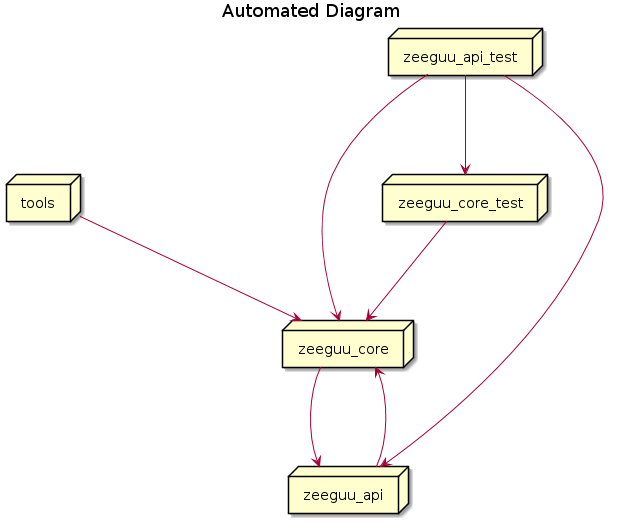
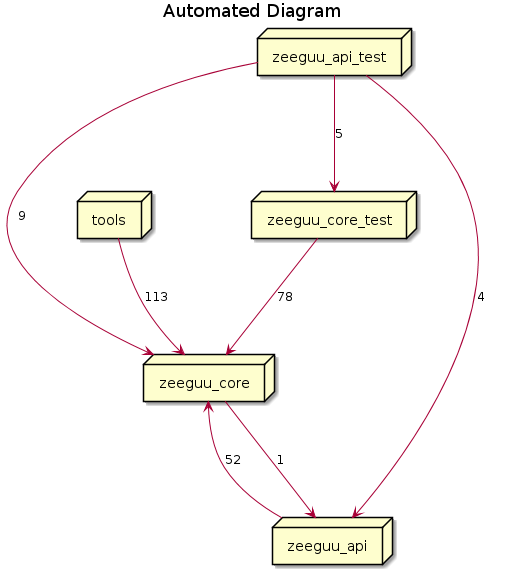
new logic for cardinality

diff --git a/cmd/main.go b/cmd/main.go
@@ -2,6 +2,7 @@ package main
 
 import (
 	"os"
+	"os/exec"
 
 	"github.com/heyjoakim/AARP/data"
 	"github.com/heyjoakim/AARP/helpers"
@@ -24,23 +25,19 @@ func main() {
 	}
 	f.WriteString("@startuml\ntitle Automated Diagram\nskinparam nodesep 100\nskinparam ranksep 100\n")
 
-	dependencies := make(map[string]bool)
-	nodes := make(map[string]bool)
+	dependencies := make(map[string]int)
+	nodes := make(map[string]int)
 
 	for _, j := range *files {
 		f, imports := logic.ReadLines(j)
-		dependencies, nodes = set.WriteToSet(dependencies, nodes, f, imports)
+		dependencies = set.WriteToSet(dependencies, nodes, f, imports)
 	}
 	data.WriteFile(f, nodes)
-	data.WriteFile(f, dependencies)
+	data.WriteFileWithCardinality(f, dependencies)
 	f.WriteString("@enduml")
 	defer f.Close()
 
-	// Requires plantuml binary in cmd folder
-	// cmd := exec.Command("./plantuml", "out/data.wsd")
-	// cmd.Run()
-
-	// if err != nil {
-	// 	log.Fatal(err)
-	// }
+	// Requires plantuml binary in cmd
+	cmd := exec.Command("./plantuml", "out/data.wsd")
+	cmd.Run()
 }
